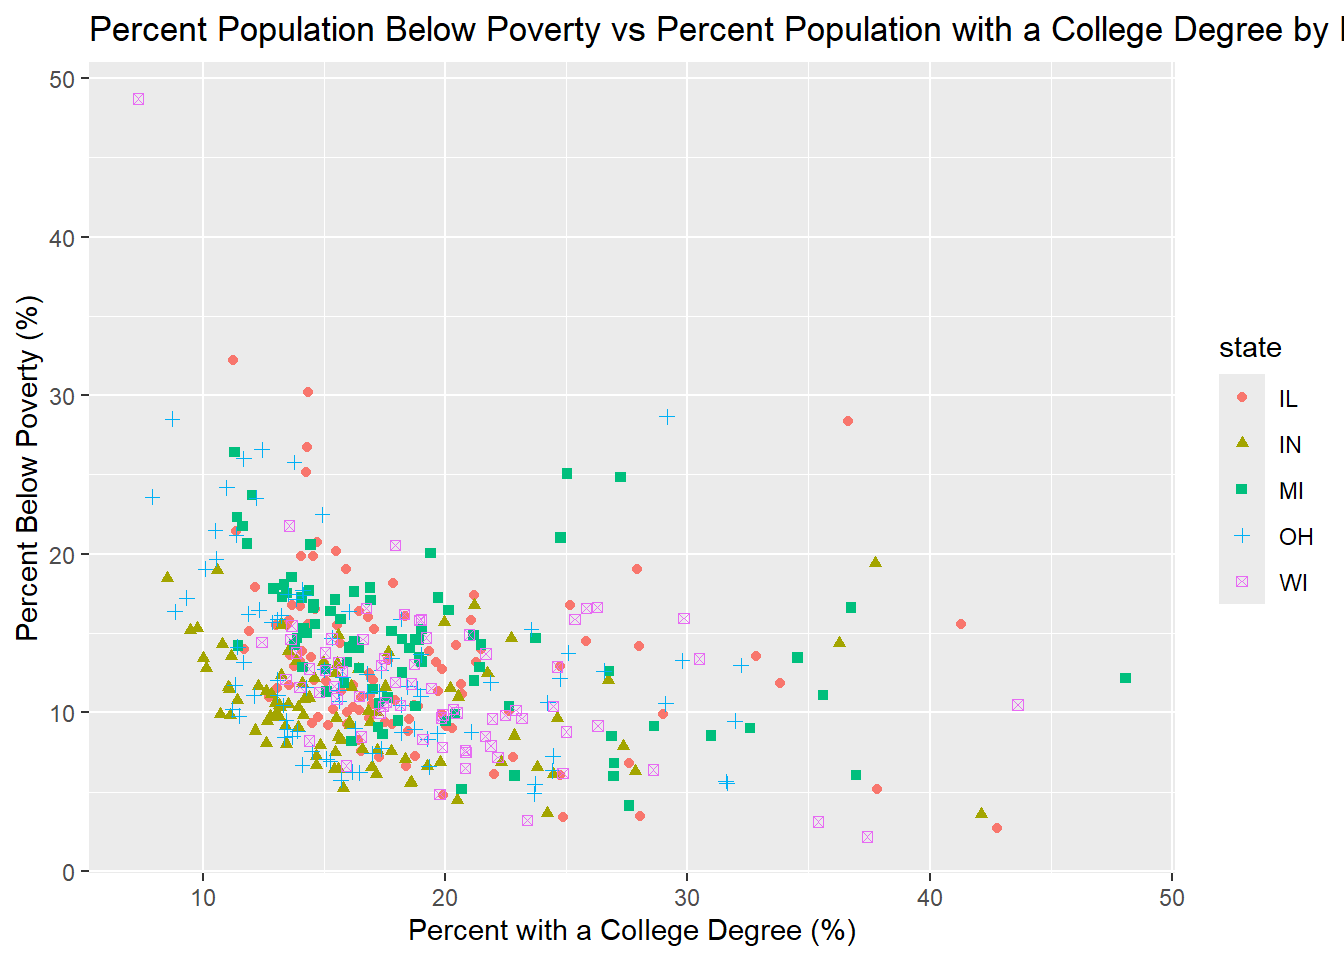
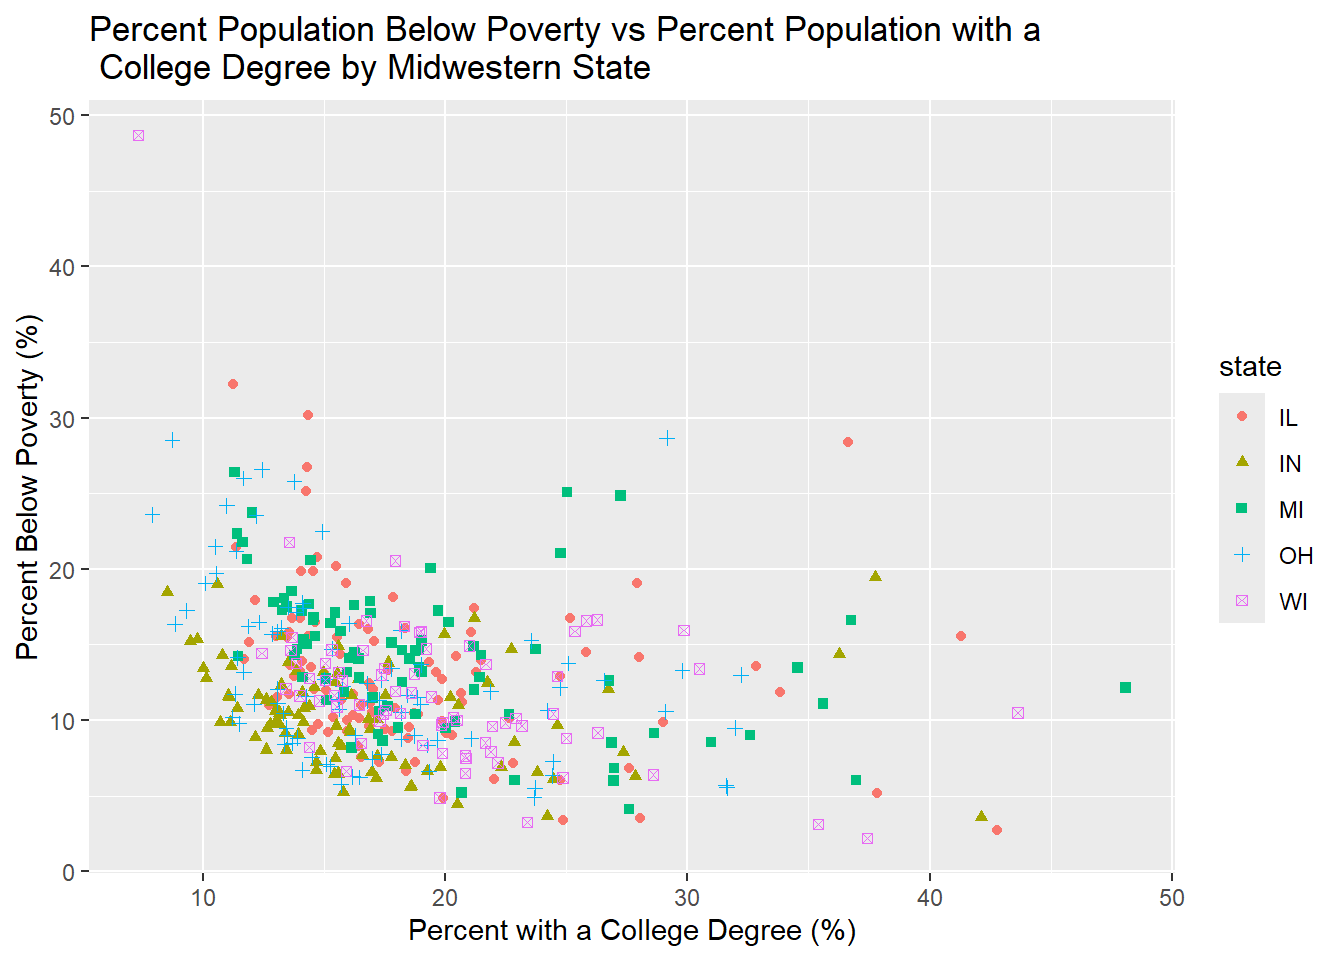
Completed Question 7

diff --git a/lab-1.html b/lab-1.html
@@ -231,7 +231,7 @@ pre > code.sourceCode > span > a:first-child::before { text-decoration: underlin
 <span id="cb13-3"><a href="#cb13-3" aria-hidden="true" tabindex="-1"></a>  <span class="fu">labs</span>(</span>
 <span id="cb13-4"><a href="#cb13-4" aria-hidden="true" tabindex="-1"></a>    <span class="at">y =</span> <span class="st">"Percent Below Poverty (%)"</span>,</span>
 <span id="cb13-5"><a href="#cb13-5" aria-hidden="true" tabindex="-1"></a>    <span class="at">x =</span> <span class="st">"Percent with a College Degree (%)"</span>,</span>
-<span id="cb13-6"><a href="#cb13-6" aria-hidden="true" tabindex="-1"></a>    <span class="at">title =</span> <span class="st">"Percent Population Below Poverty vs Percent Population with a College Degree by Midwestern State"</span></span>
+<span id="cb13-6"><a href="#cb13-6" aria-hidden="true" tabindex="-1"></a>    <span class="at">title =</span> <span class="st">"Percent Population Below Poverty vs Percent Population with a </span><span class="sc">\n</span><span class="st"> College Degree by Midwestern State"</span></span>
 <span id="cb13-7"><a href="#cb13-7" aria-hidden="true" tabindex="-1"></a>  )</span></code><button title="Copy to Clipboard" class="code-copy-button"><i class="bi"></i></button></pre></div>
 <div class="cell-output-display">
 <div>
@@ -253,7 +253,7 @@ pre > code.sourceCode > span > a:first-child::before { text-decoration: underlin
 <span id="cb14-5"><a href="#cb14-5" aria-hidden="true" tabindex="-1"></a>  <span class="fu">labs</span>(</span>
 <span id="cb14-6"><a href="#cb14-6" aria-hidden="true" tabindex="-1"></a>    <span class="at">y =</span> <span class="st">"Percent Below Poverty (%)"</span>,</span>
 <span id="cb14-7"><a href="#cb14-7" aria-hidden="true" tabindex="-1"></a>    <span class="at">x =</span> <span class="st">"Percent with a College Degree (%)"</span>,</span>
-<span id="cb14-8"><a href="#cb14-8" aria-hidden="true" tabindex="-1"></a>    <span class="at">title =</span> <span class="st">"Percent Population Below Poverty vs Percent Population with a College Degree by Midwestern State"</span></span>
+<span id="cb14-8"><a href="#cb14-8" aria-hidden="true" tabindex="-1"></a>    <span class="at">title =</span> <span class="st">"Percent Population Below Poverty vs Percent Population with </span><span class="sc">\n</span><span class="st"> a College Degree by Midwestern State"</span></span>
 <span id="cb14-9"><a href="#cb14-9" aria-hidden="true" tabindex="-1"></a>  )</span></code><button title="Copy to Clipboard" class="code-copy-button"><i class="bi"></i></button></pre></div>
 <div class="cell-output cell-output-stderr">
 <pre><code>`geom_smooth()` using method = 'loess' and formula = 'y ~ x'</code></pre>
@@ -311,6 +311,26 @@ pre > code.sourceCode > span > a:first-child::before { text-decoration: underlin
 </section>
 <section id="question-7" class="level3">
 <h3 class="anchored" data-anchor-id="question-7">Question 7</h3>
+<div class="cell">
+<div class="sourceCode cell-code" id="cb18"><pre class="sourceCode r code-with-copy"><code class="sourceCode r"><span id="cb18-1"><a href="#cb18-1" aria-hidden="true" tabindex="-1"></a>midwest <span class="sc">|&gt;</span> <span class="fu">ggplot</span>(<span class="fu">aes</span>(<span class="at">x =</span> percollege, <span class="at">y=</span> percbelowpoverty, <span class="at">color =</span> percwhite)) <span class="sc">+</span></span>
+<span id="cb18-2"><a href="#cb18-2" aria-hidden="true" tabindex="-1"></a>  <span class="fu">geom_point</span>(<span class="at">alpha =</span> <span class="fl">0.5</span>, <span class="at">size =</span> <span class="dv">2</span>) <span class="sc">+</span></span>
+<span id="cb18-3"><a href="#cb18-3" aria-hidden="true" tabindex="-1"></a>  <span class="fu">facet_wrap</span>(<span class="sc">~</span>state)<span class="sc">+</span></span>
+<span id="cb18-4"><a href="#cb18-4" aria-hidden="true" tabindex="-1"></a>  <span class="fu">theme_minimal</span>()<span class="sc">+</span></span>
+<span id="cb18-5"><a href="#cb18-5" aria-hidden="true" tabindex="-1"></a>  <span class="fu">labs</span>(</span>
+<span id="cb18-6"><a href="#cb18-6" aria-hidden="true" tabindex="-1"></a>    <span class="at">color =</span> <span class="st">"% White"</span>,</span>
+<span id="cb18-7"><a href="#cb18-7" aria-hidden="true" tabindex="-1"></a>    <span class="at">y =</span> <span class="st">"Percent Below Poverty (%)"</span>,</span>
+<span id="cb18-8"><a href="#cb18-8" aria-hidden="true" tabindex="-1"></a>    <span class="at">x =</span> <span class="st">"Percent with a College Degree (%)"</span>,</span>
+<span id="cb18-9"><a href="#cb18-9" aria-hidden="true" tabindex="-1"></a>    <span class="at">title =</span> <span class="st">"Percent Population Below Poverty vs Percent Population with a </span><span class="sc">\n</span><span class="st"> College Degree by Midwestern State and Proportion of White Population"</span></span>
+<span id="cb18-10"><a href="#cb18-10" aria-hidden="true" tabindex="-1"></a>  )</span></code><button title="Copy to Clipboard" class="code-copy-button"><i class="bi"></i></button></pre></div>
+<div class="cell-output-display">
+<div>
+<figure class="figure">
+<p><img src="lab-1_files/figure-html/unnamed-chunk-11-1.png" class="img-fluid figure-img" width="672"></p>
+</figure>
+</div>
+</div>
+</div>
+<p>There is a clear outlier in Wisconsin which is Menominee County, with far higher poverty, lower education, and lower proportion of a white population then any other. In Menominee a vast majority ~89% of people are American Indian.</p>
 </section>
 </section>
 <section id="part-2" class="level2">
